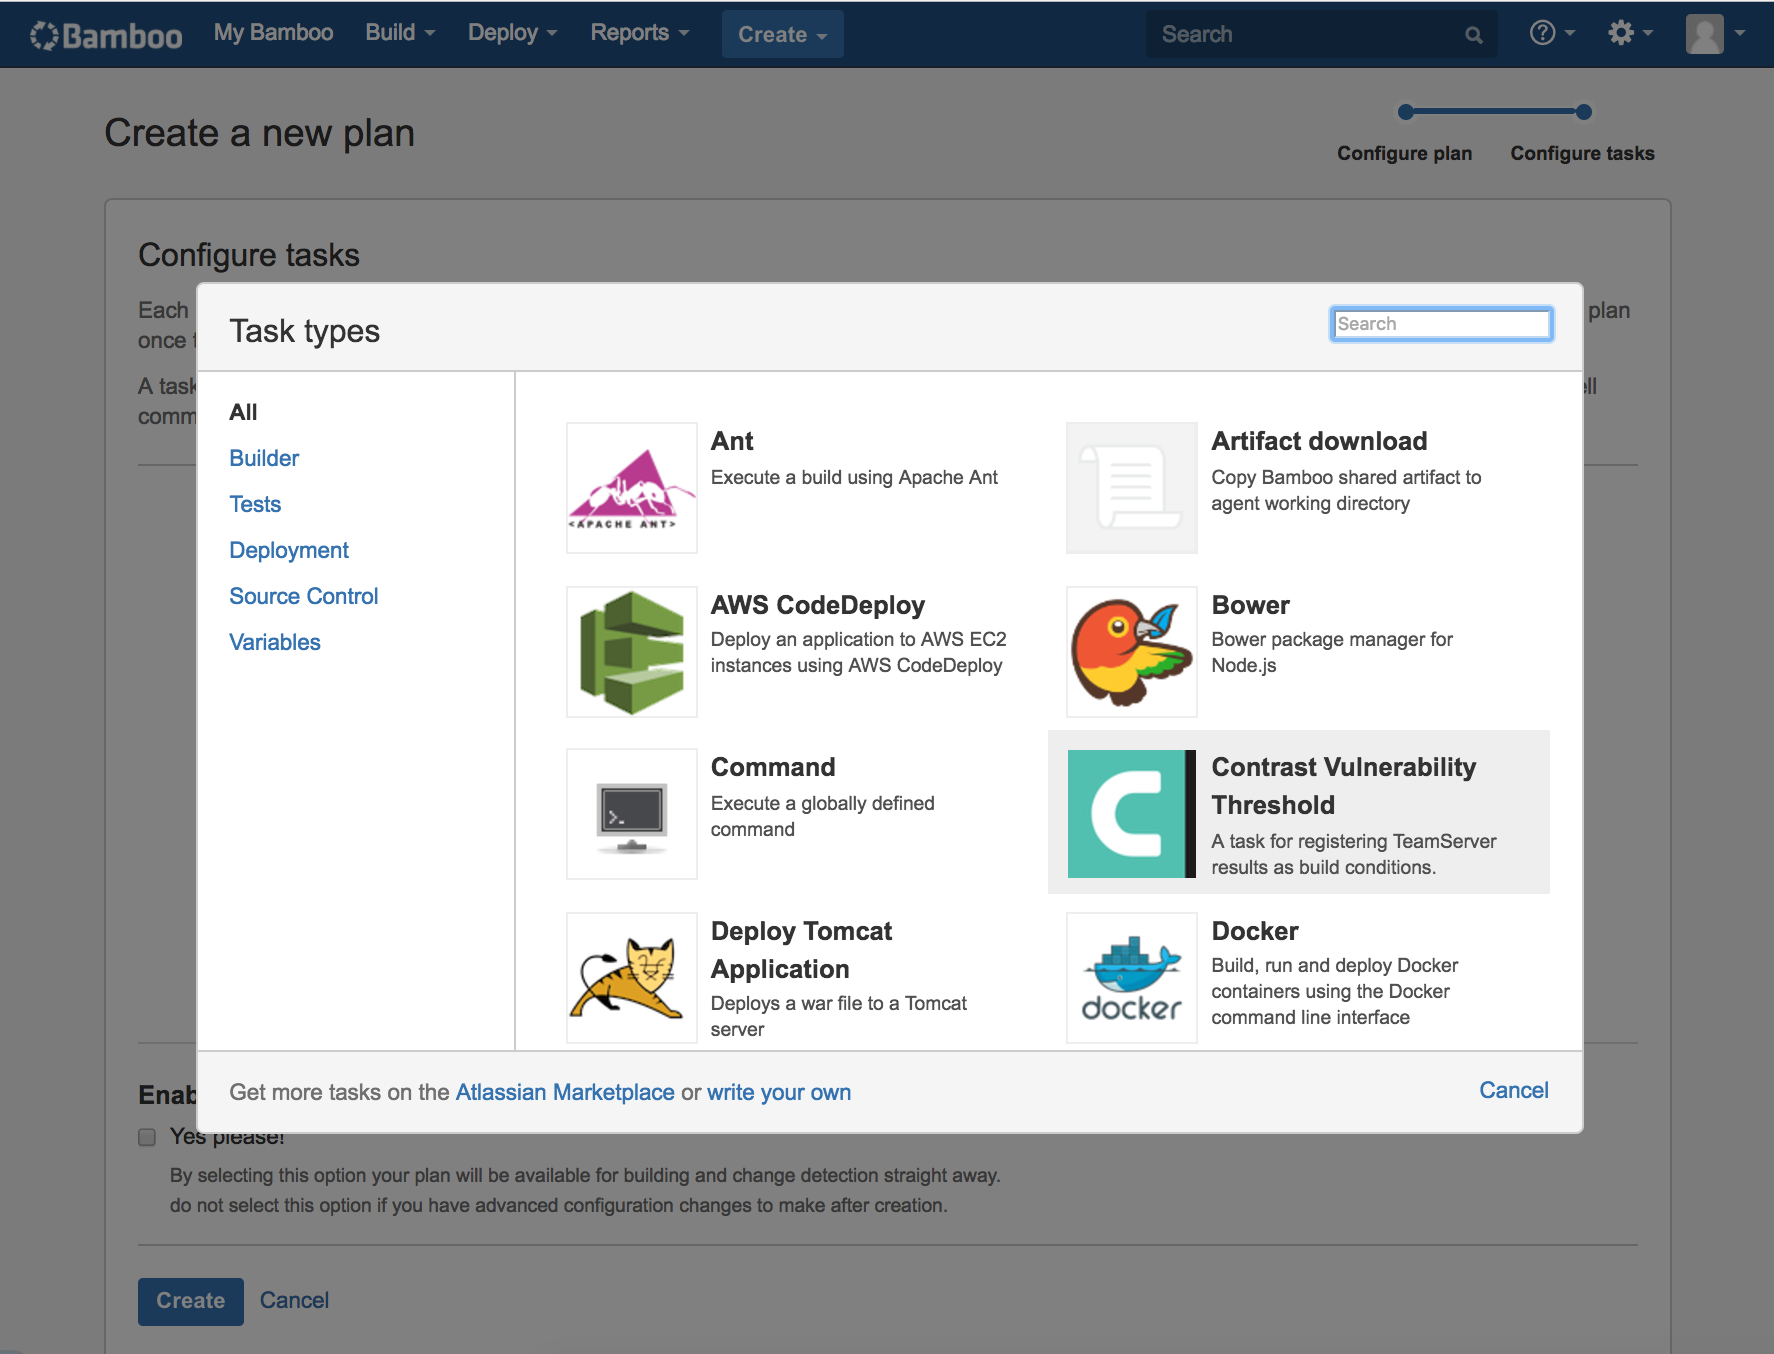
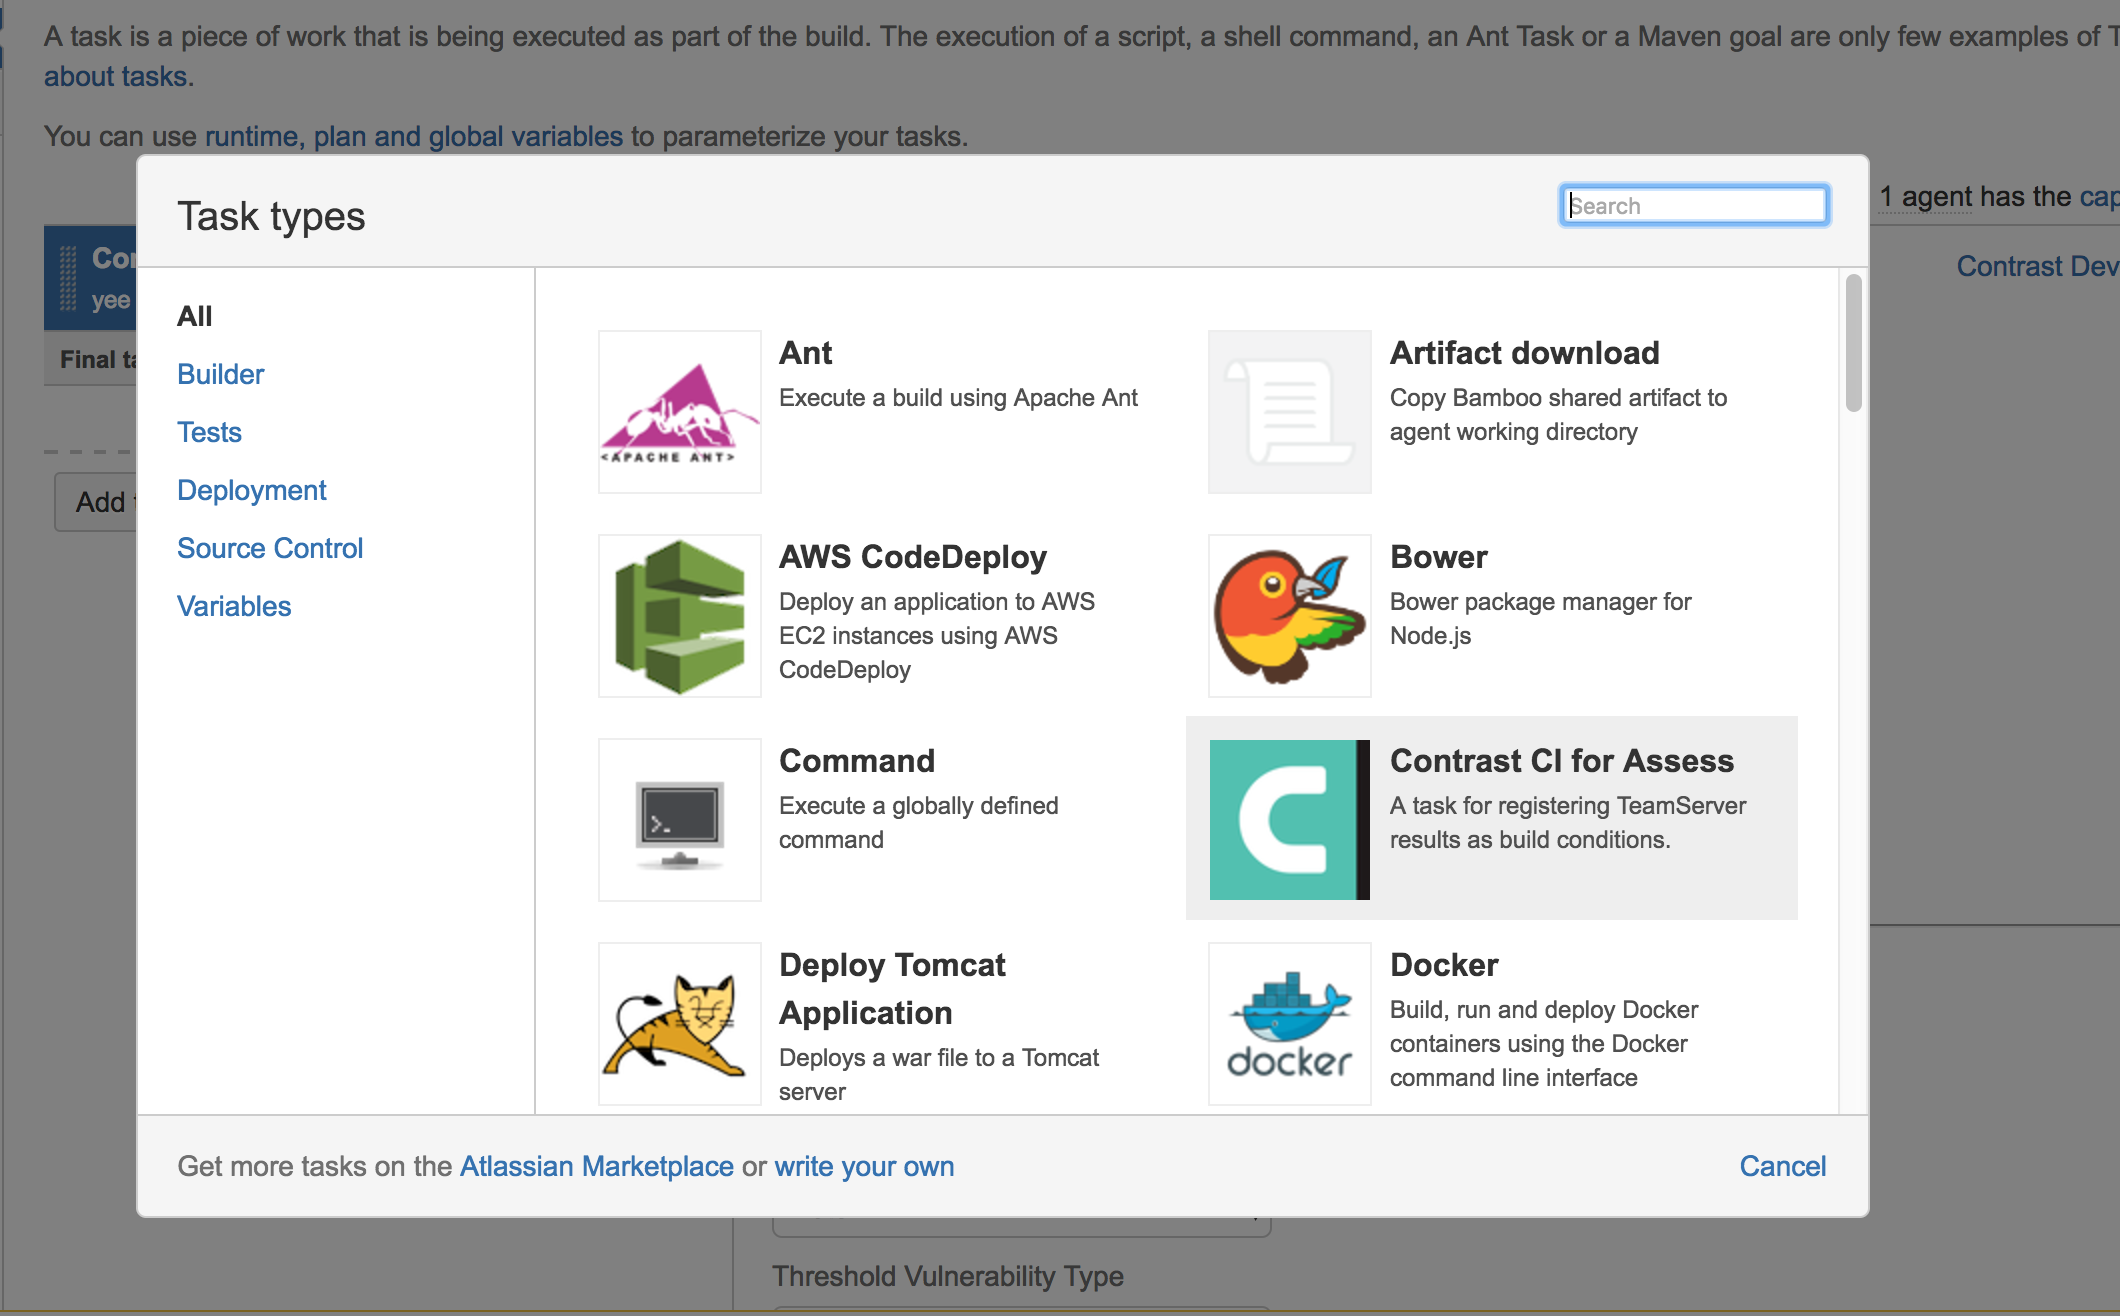
CONTRAST-8869 updated name in documentation, replaced image showing old name, replaced build results regex.

diff --git a/src/main/java/com/contrastsecurity/model/VulnerabilityTypes.java b/src/main/java/com/contrastsecurity/model/VulnerabilityTypes.java
@@ -9,6 +9,8 @@ import java.io.IOException;
 import java.util.ArrayList;
 import java.util.Comparator;
 import java.util.List;
+import java.util.logging.Logger;
+import java.util.logging.Level;
 
 public class VulnerabilityTypes {
 
@@ -28,9 +30,13 @@ public class VulnerabilityTypes {
             }
             return rules;
         } catch (IOException e) {
+            Logger.getAnonymousLogger().log(Level.SEVERE, "Failed to load organization rules for" + profile.getUuid());
             e.printStackTrace();
         } catch (UnauthorizedException e) {
+            Logger.getAnonymousLogger().log(Level.SEVERE, profile.getProfileName() + " unauthorized to access rules " +
+                    "for " + profile.getUuid());
             e.printStackTrace();
+
         }
         return new String[0];
     }

diff --git a/src/main/java/com/contrastsecurity/model/BuildResults.java b/src/main/java/com/contrastsecurity/model/BuildResults.java
@@ -120,14 +120,10 @@ public class BuildResults{
 
 
     private String simplifyBuildId(){
-        String re1="(com\\.contrastsecurity\\.bambooplugin)(:)((?:[a-z][a-z0-9_]*))(-)((?:[a-z][a-z0-9_]*))(-)(\\d+)";
-        Pattern p = Pattern.compile(re1, Pattern.CASE_INSENSITIVE | Pattern.DOTALL);
-        Matcher m = p.matcher(buildId);
-        if (m.find()) {
-           return m.group(7);
-        }
-        return "0";
+        String[] parts = buildId.split("-");
+        return parts[parts.length-1];
     }
+
     private int getTotal(){
         return noteCount + lowCount + highCount + mediumCount + criticalCount;
     }

diff --git a/README.md b/README.md
@@ -60,7 +60,7 @@ You will now be prompted to give the build plan a project name, plan name, and l
 Once you create the plan you will be able to add a task to the build process, do so by clicking the "Add Task" button.
 ![Bamboo Add Contrast Task ](./img/Bamboo_Add_First_Task.png)
 
-A popover menu will be presented, find the "Contrast Vulnerability Threshold" task and select it.
+A popover menu will be presented, find the "Contrast CI for Assess" task and select it.
 
 ![Bamboo Add Contrast Task ](./img/Bamboo_Add_Contrast_Task.png)
 
